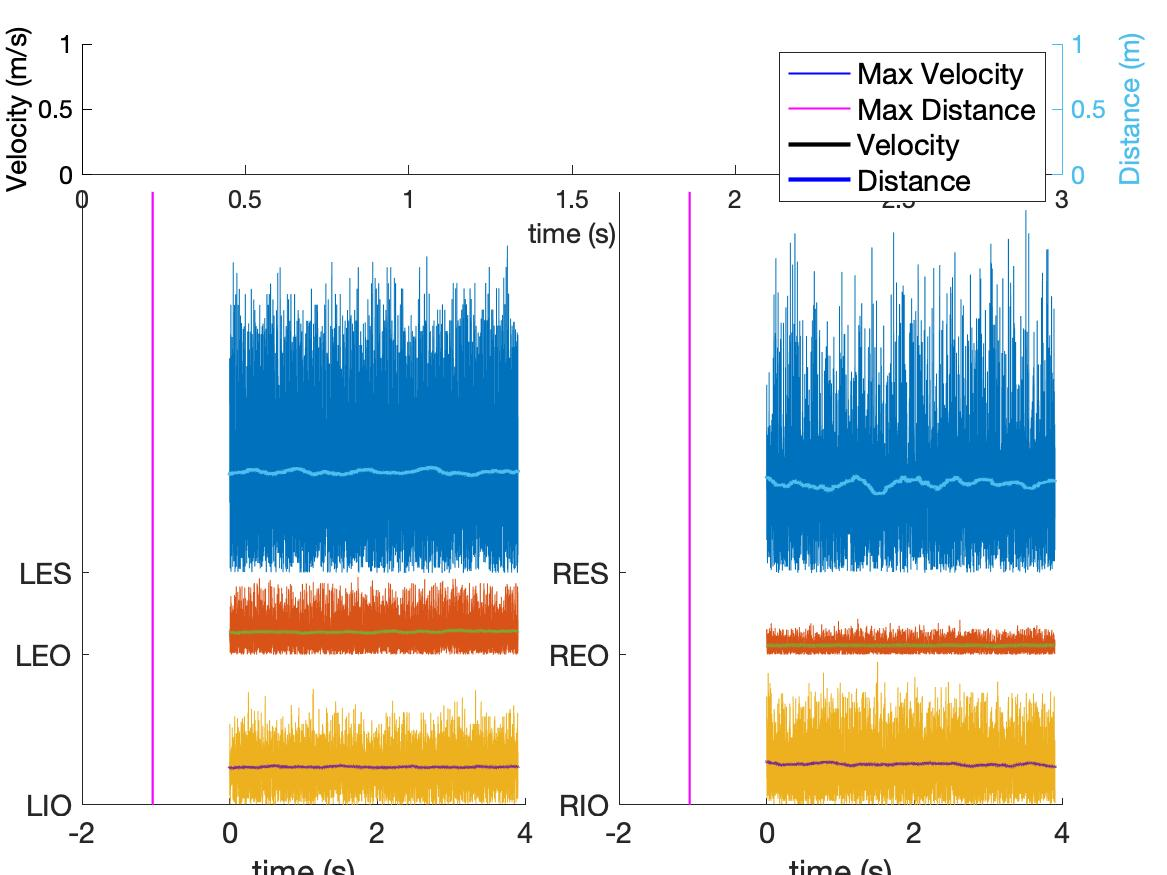
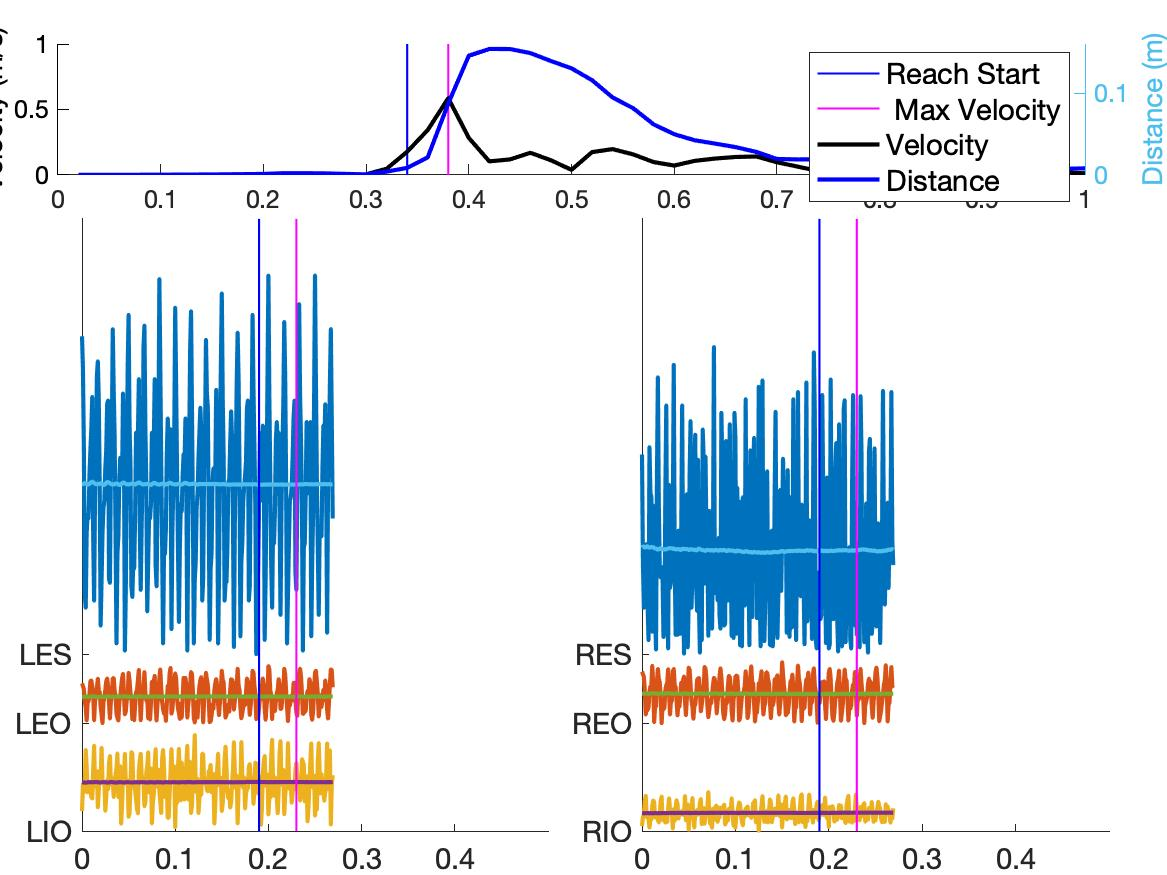
Changes to plot EMGS

diff --git a/DataAnalysis/PlotKinematicData6.m b/DataAnalysis/PlotKinematicData6.m
@@ -1,4 +1,4 @@
-function emgval =PlotKinematicData6(partid,metriafname,act3dfname,expcond)
+function avg_emg_maxvel= PlotKinematicData6(partid,metriafname,act3dfname,expcond)
 
 % partid,'2001tf_final_000000','Target_',3
 % partid = 'RTIS2001';
@@ -171,15 +171,18 @@ disp(mfname) % displays trial
 %     emgmaxvel = emg(ivelmax,1:15)
     
     figure(3)
-    emg=emg(1001:end,:);
-    t=t-1;
-    time=time-1;
+%     Lines 175-178?? Why here?? 
+%     emg=emg(1001:end,:);
+%     t=t-1;
+%     time=time-1;
 %     dist=dist(
-    ax=PlotEMGs5(emg,dist,vel,time,t,[partid '_EMG' expcondname{expcond} num2str(i)]);%,title([partid '-' afname],'Interpreter','none','Position',[-2,1,0])
+emgsmaxvel_vals = zeros(ntrials,16);
+   emgs_maxvel=PlotEMGs5(emg,dist,vel,time,t,[partid '_EMG' expcondname{expcond} num2str(i)]);%,title([partid '-' afname],'Interpreter','none','Position',[-2,1,0])
 %     disp([partid ' ' expcondname{expcond} ' trial ' num2str(i)])
 %     title(ax,[partid ' ' expcondname{expcond} ' trial ' num2str(i)])
     print('-f3','-djpeg',[partid '_EMG' num2str(expcond) num2str(i)])
 
+emgsmaxvel_vals(i,:)=emgs_maxvel; %saving each emg value at max vel to maxtrix for all trials
     
     figure
 %legend([p1' p2 p3],'Hand','Shoulder','Trunk','Home','Max Reach','Location','southeast')
@@ -206,19 +209,20 @@ disp(maxreach/10)
 
 % what passing into this function? data.pps{2}?
 %Calling COP Function
+% 
+% ppsdata =data.pps;
+% [CoP1,CoP2,stdMat1,stdMat2]= ComputeCOP(ppsdata);
+% 
+% stdMat1
+% stdMat2
+%      pause   %pausing between each trial
+%     
+%  end
+% 
 
-ppsdata =data.pps;
-[CoP1,CoP2,stdMat1,stdMat2]= ComputeCOP(ppsdata);
 
-stdMat1
-stdMat2
-     pause   %pausing between each trial
-    
- end
-
-
-
-
+end
+avg_emg_maxvel =mean(emgsmaxvel_vals); % gives the EMG values at the maximum velocity across trials
 
 
 end   

diff --git a/DataAnalysis/Analysis4.m b/DataAnalysis/Analysis4.m
@@ -180,23 +180,23 @@ emgval = PlotKinematicData6(partid,'2001tf_final_000000','Target_',4)
 partid = 'RTIS2003';
 
 %RT
-emgval = PlotKinematicData6(partid,'trial','trial',1);
+ avg_emg_maxvel=PlotKinematicData6(partid,'trial','trial',1);
 
 %R25
-emgval = PlotKinematicData6(partid,'trial','trial',2);
+avg_emg_maxvel = PlotKinematicData6(partid,'trial','trial',2);
 
 
 %R50
-emgval = PlotKinematicData6(partid,'trial','trial',3);
+avg_emg_maxvel = PlotKinematicData6(partid,'trial','trial',3);
 
 %uT
-emgval = PlotKinematicData6(partid,'trial','trial',4);
+avg_emg_maxvel = PlotKinematicData6(partid,'trial','trial',4);
 
 %U25
-emgval = PlotKinematicData6(partid,'trial','trial',5);
+avg_emg_maxvel = PlotKinematicData6(partid,'trial','trial',5);
 
 %U50
-emgval = PlotKinematicData6(partid,'trial','trial',6);
+avg_emg_maxvel= PlotKinematicData6(partid,'trial','trial',6);
 
 
 
